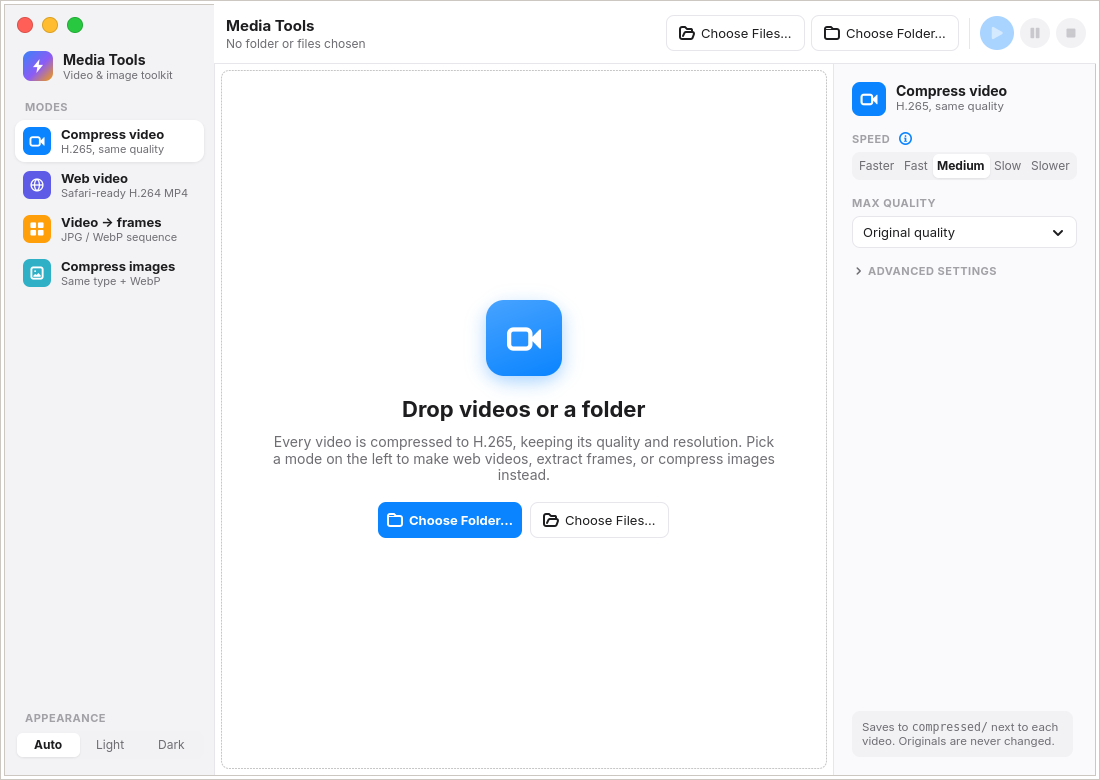
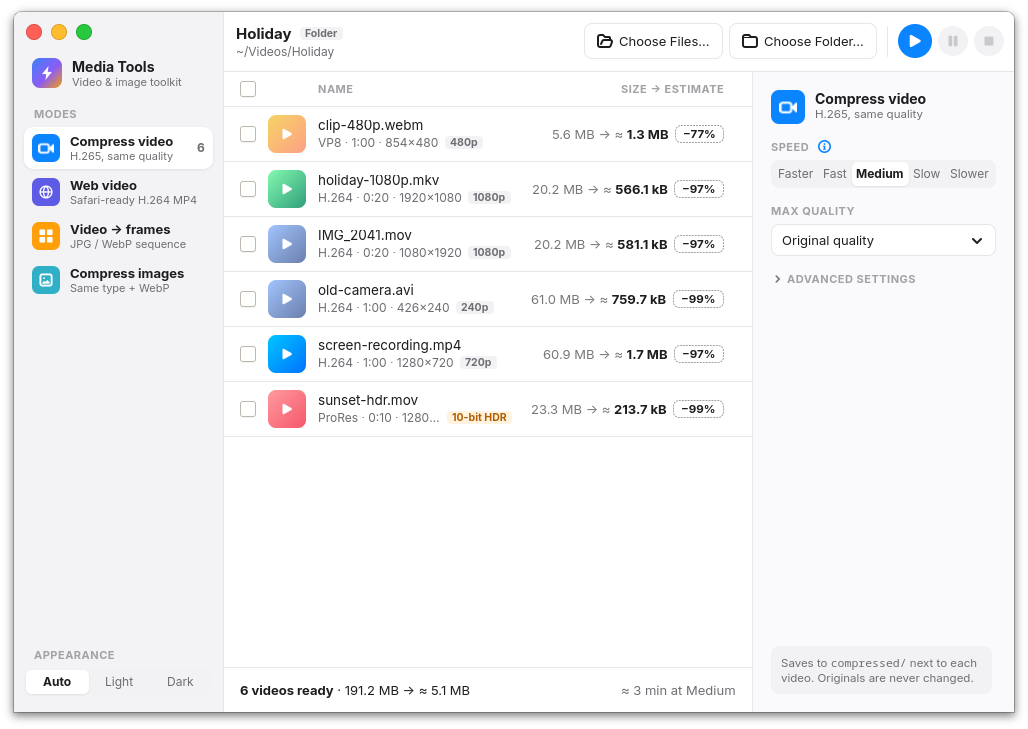
Refactor code structure for improved readability and maintainability

diff --git a/ROADMAP.md b/ROADMAP.md
@@ -5,7 +5,7 @@
 > in a job interview. These tools are not a business. They stay open source.
 > Market context for Video Compressor: [Video Compressor/docs/MARKET-RESEARCH.md](Video%20Compressor/docs/MARKET-RESEARCH.md).
 
-**Status (2026-11-13):** Phase 0 is done (`b885e7f`). Phase 1: CI workflows written (not pushed yet), sandbox checks
+**Status (2026-11-13):** Phase 0 is done (`b885e7f`). Phase 2: the store screenshots are done; the rest is manual by Flathub policy. Phase 1: CI workflows written (not pushed yet), sandbox checks
 that need no dialog pass; the portal dialogs still need a run on the real desktop. Media Tools has its license, app ID, icon and metainfo, and a Flatpak manifest that builds,
 installs and runs every mode inside the sandbox. Committed (`caa7b10`), not tagged yet. Next: tag
 `media-tools-v0.1.0`, test the sandbox on the real desktop (Phase 1 list), then choose how updates reach users before
@@ -74,7 +74,8 @@ LICENSE
 - [x] Add `LICENSE`.
 - [x] Root `README.md`: what the repo is, a table of tools, install instructions, build instructions.
 - [x] `Video Compressor/README.md` with 3 screenshots (2026-11-13, Xvfb, generated test clips; the README says so):
-      `data/screenshots/estimates.png`, `results.png`, `web-video-dark.png`. The metainfo still uses `main.png` (Phase 2).
+      `data/screenshots/estimates.png`, `results.png`, `web-video-dark.png`. The metainfo uses `main.png` and
+      `main-dark.png` (Phase 2).
 - [x] `CONTRIBUTING.md`: dependencies (`gtk4-devel`, `cmake`, `ffmpeg` with libx265, `pngquant`, `ImageMagick`),
       the build and test commands from SPEC.md, the ASan debug build, and how to run the fixtures script.
 - [x] Issue templates (bug, feature; GitHub issue forms in `.github/ISSUE_TEMPLATE/`) and a PR template.
@@ -153,8 +154,15 @@ nothing else installed.
   - **App ID vs. repo:** for `io.github.*` the last part should match the repo (`.../Personal-Tools`). A monorepo ID
     like `MediaTools` needs a reviewer exception, which the rules allow. Ask in the PR.
   - Screenshot URLs must point at a tag or commit, not a branch. The metainfo and desktop file need complete English.
-- [ ] Replace the screenshot with a real one: files in the list, window shadow and rounded corners, 1000×700 or smaller.
-      Today's `data/screenshots/main.png` is the empty start screen from Xvfb.
+- [x] Replace the screenshot with a real one (2026-11-13): `main.png` (light, default) and `main-dark.png`, both in the
+      metainfo. A 1000×700 window with six videos listed, captured by GNOME Shell 50 itself (`ScreenshotWindow` in a
+      headless `gnome-shell --headless --wayland` session with fresh settings), so the rounded corners and shadow are real
+      and transparent. Throwaway patch for the capture only: window size 1000×700 and a folder loaded at startup.
+      Uses the generated test clips, so the estimates (−97 %) are far better than real footage would get; retake with
+      real videos if a reviewer objects.
+- [ ] **Everything below is yours to do by hand** (AI policy above): the Flathub manifest, the PR, and all replies.
+- [ ] Before submitting: tag `media-tools-v0.1.0` and push it (screenshot URLs need it), finish the Phase 1 desktop
+      tests, and let some history build up (tagged releases, commits over weeks).
 - [ ] Submit a PR to `flathub/flathub`. Review can take weeks. Reviewers may question `--filesystem=home`: either explain
       why it's needed (batch processing of whole folders) or tighten it first.
 - [ ] After acceptance, updates are PRs to the `flathub/<appid>` repo (Flathub's bot can open them for new tags).
